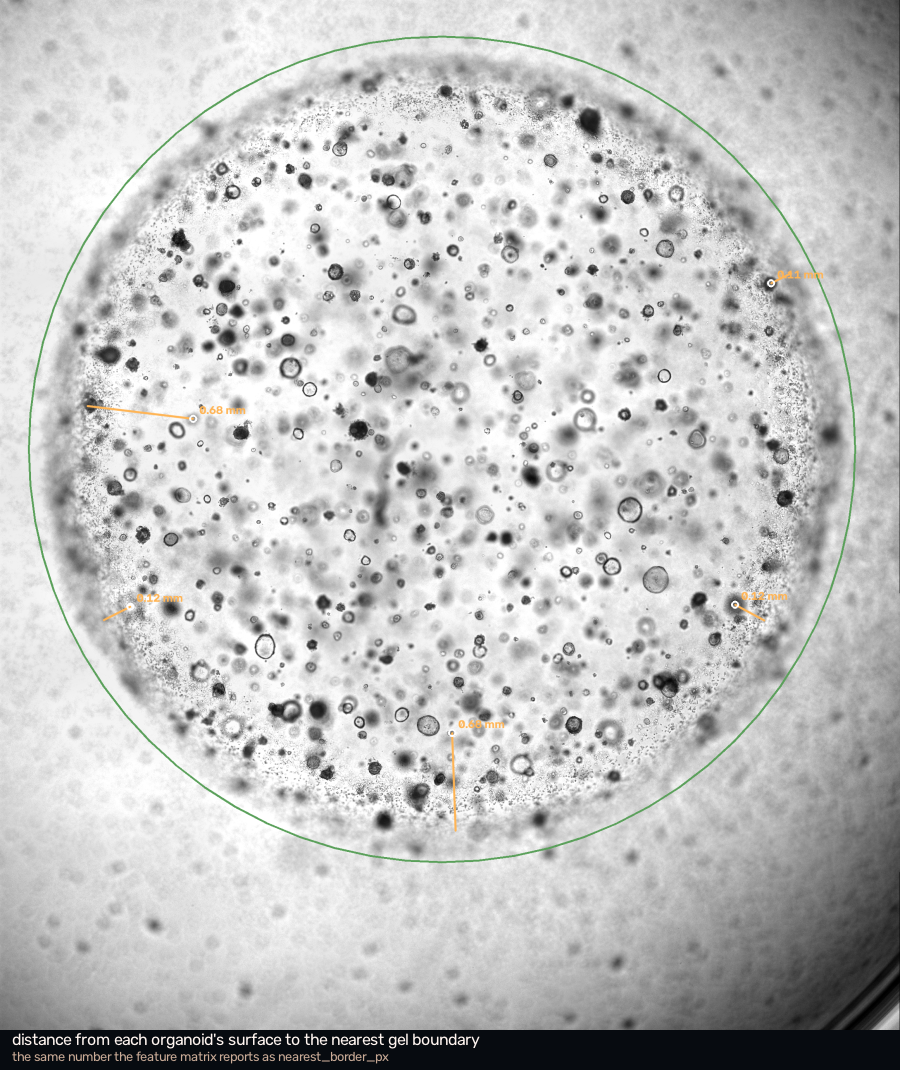
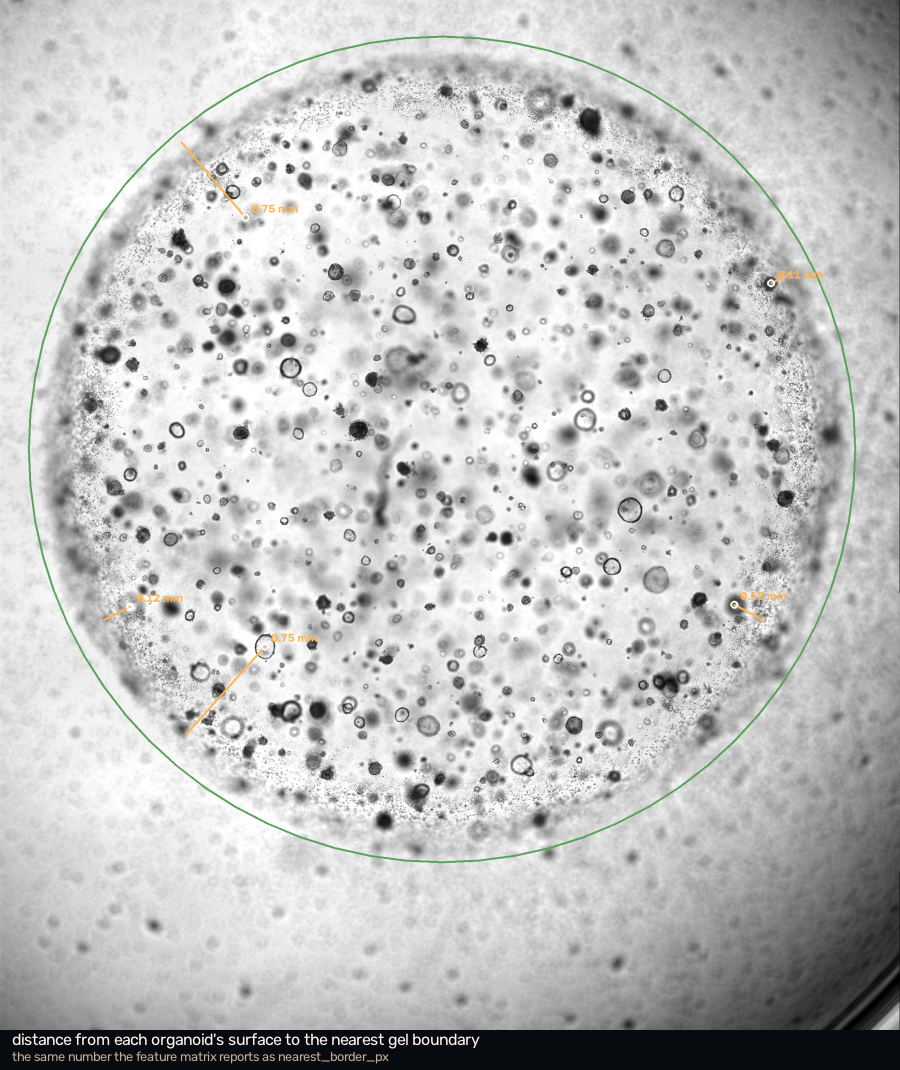
Correct the illumination before detecting, not only before measuring
The flat field was applied on the way to the feature matrix and nowhere else, so
the segmenter was looking at raw frames with sixty grey levels of tilt across
them. That is a strange position for a pipeline to take about its own data --
detecting on one version of an image and measuring on another -- and it costs
real objects, because the segmenter normalises each frame by its own
percentiles and a strong gradient spends much of that range on the gradient.

Measured on five fields before committing to it: 287 detections become 331. The
gain is not uniform and that is the point. The field under the thickest gel,
where contrast is worst, goes from 128 to 170; the brightest field loses four.
Across the whole mosaic, 844 organoids become 951.

More is not automatically better, so the false positives were counted too. The
fraction of outlines enclosing nothing more absorbing than the gel around them
is 5.2 % before and 5.7 % after -- flat, while the count rose thirteen per cent.
The extra objects are objects.

That flag is new as well, and it catches a failure no shape test can see. An
outline sitting on empty gel is wrong however smooth it is, while a ragged
outline may be a ragged organoid; of twenty-five empty outlines on this dataset,
the shape check caught one. Both flags now appear as chips in the viewer, since
a caveat only reaches anyone if it is next to the number it qualifies.

Also: the 3D view gained a switch for whether the models are drawn at all, which
[…]

diff --git a/jx3d/mosaic_viewer.html b/jx3d/mosaic_viewer.html
@@ -75,6 +75,7 @@ footer{background:var(--panel);border-top:1px solid var(--line);padding:6px 13px
   <h1>JX-3D — whole dome</h1>
   <div class="meta" id="hmeta"></div>
   <div class="spacer"></div>
+  <button id="b-models" class="on">Organoids</button>
   <button id="b-plane" class="on">Photo in 3D</button>
   <span class="meta">show</span><span id="clipmodes" class="toggles"></span>
   <button id="b-dome" class="on">Dome</button>
@@ -162,7 +163,8 @@ const state = {
   mode: "slice",            /* slice | edf */
   outline: 0.90, fill: 0.0, window: 4, allDepths: false,
   borders: true, labels: false,
-  showPlane: true, clip: "above", showDome: true, showLine: false,
+  showPlane: true, clip: "above", showModels: true, showDome: true,
+  showLine: false,
   buildUp: false,
   colour: "depth", playing: false,
 };
@@ -666,7 +668,7 @@ let dirty3 = true;
 function draw3d(){
   dirty3 = false;
   for (const [uid, m] of meshes){
-    const o = m.userData.o, vis = shown(o) && revealed(o);
+    const o = m.userData.o, vis = state.showModels && shown(o) && revealed(o);
     m.visible = vis;
     if (!vis) continue;
     const sel = o === state.selected;
@@ -703,7 +705,7 @@ const GROUPS = [
                    "nearest_border_is_cap"]],
   ["Size", ["diameter_px","diameter_um","radius_px","area_px2","volume_voxels",
             "radius_z_slices"]],
-  ["Shape", ["circularity","solidity","convexity","radius_cv","shape_suspect","radius_min_over_max",
+  ["Shape", ["circularity","solidity","convexity","radius_cv","shape_suspect","outline_empty","radius_min_over_max",
              "harmonic_1","harmonic_2","harmonic_3","harmonic_high"]],
   ["Core vs rim", ["rim_minus_core_od","core_over_rim_od","core_rim_separation",
                    "core_fill_fraction","core_od_mean","rim_od_mean","core_od_std",
@@ -719,10 +721,10 @@ const GROUPS = [
 ];
 /* Flags are shown as chips above the table, before any number, because they
    say whether the numbers below them mean anything. */
-const FLAGS = ["shape_suspect","clipped","clipped_everywhere",
+const FLAGS = ["outline_empty","shape_suspect","clipped","clipped_everywhere",
                "single_view_in_overlap","radius_disagreement","same_tile_twice",
                "guarantee_void"];
-const BOOLEAN_COLUMNS = new Set(["shape_suspect", "appearance_measurable",
+const BOOLEAN_COLUMNS = new Set(["shape_suspect", "outline_empty", "appearance_measurable",
                                  "nearest_border_is_cap"]);
 function fmt(v, key){
   if (v === null || v === undefined || v === "") return "—";
@@ -935,6 +937,12 @@ toggle("b-dome",   () => state.showDome,  v => state.showDome = v);
 toggle("b-line",   () => state.showLine,  v => state.showLine = v);
 toggle("b-build",  () => state.buildUp,   v => { state.buildUp = v; renderStats(); });
 toggle("b-plane",  () => state.showPlane, v => state.showPlane = v);
+/* Whether the models are drawn at all is a separate question from which side of
+   the photograph is kept. Turning them off leaves the photograph and the dome,
+   which is how you check what the picture looks like without the reconstruction
+   arguing with it -- and turning the photograph off instead leaves the models
+   alone. The two switches multiply, which is the point. */
+toggle("b-models", () => state.showModels, v => state.showModels = v);
 toggle("b-borders",() => state.borders,   v => state.borders = v);
 toggle("b-labels", () => state.labels,    v => state.labels = v);
 toggle("b-all-depths", () => state.allDepths, v => { state.allDepths = v; renderStats(); });

diff --git a/make_mosaic_media.py b/make_mosaic_media.py
@@ -213,6 +213,63 @@ def stitching_figure(mosaic, slices, meta, docs, z, width=1500):
     print(f"  {docs / 'stitching.png'}")
 
 
+def overlap_gif(mosaic, slices, meta, docs, z, width=820, n=26):
+    """Two neighbouring fields sliding into place, one over the other.
+
+    The four-panel figure says what the overlap is; this shows it happening. The
+    right-hand field starts a long way off, slides to where the stage log put
+    it, and then to where the pixels say it belongs -- and the point of the
+    animation is that the last step is small and still obvious, because two
+    copies of the same organoid a few pixels apart are unmistakable when they
+    are moving.
+    """
+    a, b = mosaic.at(0, 0), mosaic.at(0, 1)
+    ia, ib = slices.tile_slice(a, z), slices.tile_slice(b, z)
+    ox = b.x0 - a.x0                      # the refined offset, in pixels
+    stage = round(a.width * 0.70)         # what the stage log alone would give
+    pad = 150
+    H = a.height
+    W = int(ox + b.width + pad)
+
+    def frame(dx, caption, sub, tint):
+        canvas = np.zeros((H, W), np.float32)
+        wsum = np.zeros((H, W), np.float32)
+        canvas[:, :a.width] += ia; wsum[:, :a.width] += 1
+        x = int(round(dx))
+        x0, x1 = max(0, x), min(W, x + b.width)
+        if x1 > x0:
+            canvas[:, x0:x1] += ib[:, x0 - x:x1 - x]
+            wsum[:, x0:x1] += 1
+        img = np.divide(canvas, np.maximum(wsum, 1), out=np.zeros_like(canvas))
+        vis = cv2.cvtColor(np.clip(img, 0, 255).astype(np.uint8), cv2.COLOR_GRAY2BGR)
+        # mark where each field lies, so the overlap is visible as an overlap
+        cv2.rectangle(vis, (0, 1), (a.width, H - 2), GOLD, 3)
+        if x1 > x0:
+            cv2.rectangle(vis, (x, 1), (min(W - 1, x + b.width), H - 2), tint, 3)
+        vis = fit_width(vis, width)
+        return cv2.cvtColor(label(vis, caption, sub), cv2.COLOR_BGR2RGB)
+
+    frames = []
+    for t in np.linspace(0, 1, n):                       # slide in from the right
+        dx = b.width * 0.98 * (1 - t) + stage * t
+        frames.append(frame(dx, "field 2 slides towards field 1",
+                            "they were photographed 2.5 mm apart on the stage",
+                            (90, 200, 120)))
+    frames += [frame(stage, "where the stage log puts it",
+                     "close, and out by enough to count one organoid twice",
+                     (90, 200, 120))] * 10
+    for t in np.linspace(0, 1, 8):                       # the refinement
+        frames.append(frame(stage + (ox - stage) * t,
+                            "refined against the overlapping pixels",
+                            f"{abs(ox - stage):.0f} px further; the pairs now agree "
+                            f"to {meta['registration']['residual_px']:.2f} px",
+                            AMBER))
+    frames += [frame(ox, "one image, joined",
+                     "the shared strip is averaged, so the seam disappears",
+                     AMBER)] * 14
+    save_gif(docs / "overlap.gif", frames, 110, palettesize=96)
+
+
 def dome_gif(mosaic, slices, meta, docs, width=560, n=20):
     """The droplet's cross-section widening as the focus descends.
 
@@ -366,6 +423,7 @@ def main(argv=None) -> int:
     print("building figures:")
     assembly_gif(mosaic, slices, docs, z)
     stitching_figure(mosaic, slices, meta, docs, z)
+    overlap_gif(mosaic, slices, meta, docs, z)
     dome_gif(mosaic, slices, meta, docs)
     fov_gif(mosaic, slices, rows, docs, z)
     border_figure(mosaic, slices, meta, rows, docs)

diff --git a/jx3d/pipeline.py b/jx3d/pipeline.py
@@ -75,6 +75,7 @@ def _cache_key(stack: ZStack, params: Params, z_limit: int) -> dict:
         "expected_diameter_px": params.expected_diameter_px,
         "files": len(stack.files),
         "z_limit": int(z_limit),
+        "flat_fielded": bool(stack.meta.get("flat_fielded")),
     }
 
 
@@ -100,7 +101,8 @@ def run(folder: str | Path, outdir: str | Path, params: Params | None = None,
         gpu: bool = True, use_cache: bool = True, jpeg_quality: int = 72,
         min_sharpness: float = 0.25, build_html: bool = True,
         calibration: dict | None = None,
-        substrate_override: float | None = None) -> Result:
+        substrate_override: float | None = None,
+        flat_field=None) -> Result:
     params = params or Params()
     outdir = Path(outdir)
     outdir.mkdir(parents=True, exist_ok=True)
@@ -110,6 +112,20 @@ def run(folder: str | Path, outdir: str | Path, params: Params | None = None,
     _log("=" * 74)
     _log("[1/7] Loading Z-stack")
     stack = load_stack(folder)
+    if flat_field is not None:
+        # Correct the illumination *before* anything is detected, not just
+        # before things are measured.
+        #
+        # The segmenter normalises each image by its own percentiles, so a frame
+        # with sixty grey levels of tilt across it spends much of that range on
+        # the gradient rather than on the specimen, and the dim corner of every
+        # field is where objects go missing. Measuring on corrected pixels while
+        # detecting on uncorrected ones also means the two disagree about what
+        # the image looks like, which is a strange position for a pipeline to
+        # take about its own data.
+        corrected = stack.data.astype(np.float32) / flat_field[None, :, :]
+        stack.data = np.clip(corrected, 0, 255).astype(np.uint8)
+        stack.meta["flat_fielded"] = True
     for field, value in (calibration or {}).items():
         setattr(stack.acq, field, value)
         if field in ("px_um", "z_um"):
@@ -137,6 +153,8 @@ def run(folder: str | Path, outdir: str | Path, params: Params | None = None,
         _log(f"  sharpest plane   : Z{substrate + 1:03d}  (well bottom / glass surface)")
     z_limit = max(3, min(stack.depth, substrate - params.substrate_margin_slices + 1))
     key = _cache_key(stack, params, z_limit)
+    if stack.meta.get("flat_fielded"):
+        _log("  illumination corrected before detection")
     _log(f"  analysed range   : Z001 - Z{z_limit:03d}")
     _log(f"  depth of field   : ~{stack.acq.depth_of_field_um:.0f} µm "
          f"(~{stack.acq.depth_of_field_um / stack.acq.z_um:.1f} slices)"
@@ -388,6 +406,7 @@ def _write_tables(organoids: list[Organoid], stack: ZStack, params: Params,
         "acquisition": acq.to_dict(),
         "params": params.to_dict(),
         "substrate_slice": int(substrate),
+        "flat_fielded": bool(stack.meta.get("flat_fielded")),
         "viewer_version": _viewer_version(),
         "dome": dome.to_dict() if dome is not None else None,
         "n_organoids": len(organoids),

diff --git a/jx3d/mosaic_pipeline.py b/jx3d/mosaic_pipeline.py
@@ -68,7 +68,8 @@ class MosaicResult:
 
 def analyse_tiles(mosaic: mosaicmod.Mosaic, substrate: float, params: Params,
                   outdir: Path, gpu: bool = True, use_cache: bool = True,
-                  min_sharpness: float = 0.25) -> dict[str, list[dict]]:
+                  min_sharpness: float = 0.25, flat_field=None
+                  ) -> dict[str, list[dict]]:
     """Run the validated single-field measurement on each tile in turn.
 
     One tile is resident at a time. The full mosaic volume is 750 million
@@ -95,7 +96,8 @@ def analyse_tiles(mosaic: mosaicmod.Mosaic, substrate: float, params: Params,
                        and cached.get("mode") == params.mode
                        and cached.get("detector") == params.detector
                        and cached.get("min_diameter_px") == params.min_diameter_px
-                       and cached.get("max_diameter_px") == params.max_diameter_px)
+                       and cached.get("max_diameter_px") == params.max_diameter_px
+                       and bool(payload.get("flat_fielded")) == (flat_field is not None))
             if matches:
                 per_tile[tile.name] = payload["organoids"]
                 _log(f"  {len(per_tile[tile.name])} organoids (cached)")
@@ -104,7 +106,8 @@ def analyse_tiles(mosaic: mosaicmod.Mosaic, substrate: float, params: Params,
                  f"(mode {cached.get('mode')} vs {params.mode}); re-measuring")
         run_tile(tile.folder, tile_out, params=params, gpu=gpu,
                  use_cache=use_cache, build_html=False,
-                 min_sharpness=min_sharpness, substrate_override=substrate)
+                 min_sharpness=min_sharpness, substrate_override=substrate,
+                 flat_field=flat_field)
         if result_path.exists():
             per_tile[tile.name] = json.loads(result_path.read_text())["organoids"]
         else:
@@ -236,7 +239,7 @@ def run(dataset: str | Path, outdir: str | Path, params: Params | None = None,
     _log("\n[5/7] Measuring each tile")
     per_tile = analyse_tiles(mosaic, substrate.slice_index, params, outdir,
                              gpu=gpu, use_cache=use_cache,
-                             min_sharpness=min_sharpness)
+                             min_sharpness=min_sharpness, flat_field=flat.gain)
 
     _log("\n[6/7] Merging the overlaps")
     organoids, report = dedupmod.merge(mosaic, per_tile, acq)

diff --git a/jx3d/features.py b/jx3d/features.py
@@ -307,6 +307,26 @@ def intensity_features(regions: Regions, od: np.ndarray) -> dict[str, float]:
     out.update(_stats(od[regions.annulus], "rim"))
     out.update(_stats(od[regions.body], "body"))
 
+    body = od[regions.body]
+    if body.size >= 4:
+        # Does the outline contain an object at all? An organoid absorbs light;
+        # gel does not. If the enclosed region is no more absorbing than the
+        # background estimated from the ring around it, then whatever the
+        # segmenter drew, there is nothing inside it.
+        #
+        # This catches a failure that no shape test can see. A ragged outline
+        # may be a genuinely ragged organoid, but an outline sitting on empty
+        # gel is wrong however smooth it is -- and on this dataset the two
+        # populations barely overlap: of twenty-five empty outlines, the shape
+        # flag caught one.
+        #
+        # The threshold is six per cent absorption, which is an order of
+        # magnitude below what any real organoid here shows (median 52 %) and an
+        # order of magnitude above the noise of an 8-bit image against a
+        # fitted background.
+        out["body_od_mean"] = float(body.mean())
+        out["outline_empty"] = float(out["body_od_mean"] < 0.06)
+
     core = od[regions.core]
     rim = od[regions.annulus]
     if core.size >= 4 and rim.size >= 4:
@@ -617,6 +637,12 @@ VIABILITY_COLUMNS: list[tuple[str, str]] = [
     ("solidity", "outline area over its convex hull: how lobed or dented it is"),
     ("radius_cv", "variation of the radius around the outline, a scale-free "
                   "measure of how irregular the boundary is"),
+    ("outline_empty", "the outline encloses nothing more absorbing than the gel "
+                      "around it, so the segmenter drew a boundary where there "
+                      "is no object. Unambiguously wrong, unlike an irregular "
+                      "shape, and invisible to any test of shape -- of the "
+                      "twenty-five found on this dataset, the shape check caught "
+                      "one. Drop these rows"),
     ("shape_suspect", "the outline has a notch or a raggedness an organoid does "
                       "not have, so the segmenter probably cut into it or merged "
                       "it with a neighbour. Affects a small minority -- two of a "

diff --git a/tests/check_mosaic_viewer.py b/tests/check_mosaic_viewer.py
@@ -154,6 +154,14 @@ HARNESS = r"""
                                         m.material.clippingPlanes.length === 1),
          "and no material gains or loses a clipping plane, so nothing recompiles");
       state.clip = "above"; draw3d();
+
+      // and whether the models are drawn at all is independent of which side
+      state.showModels = false; draw3d();
+      ok([...meshes.values()].every(m => !m.visible),
+         "the organoids can be hidden entirely, leaving the photograph and dome");
+      ok(planeMesh.visible, "the photograph stays when the models are hidden");
+      state.showModels = true; draw3d();
+      ok([...meshes.values()].some(m => m.visible), "and they come back");
     }
     ok(Math.abs(planeMesh.position.z - ZW(state.z)) < 1e-6,
        "the plane sits at exactly the current slice's depth");

diff --git a/jx3d/__init__.py b/jx3d/__init__.py
@@ -15,7 +15,7 @@ A specimen larger than one field is captured as a grid of overlapping stacks.
 measured as a single object rather than as fifteen unrelated views of it.
 """
 
-__version__ = "2.9.0"
+__version__ = "2.10.0"
 
 from .config import Acquisition, Params
 from .mosaic import Mosaic, Tile

diff --git a/README.md b/README.md
@@ -20,7 +20,7 @@ the source it came from — see [Units](#units).
 ![mosaic](docs/mosaic.png)
 
 *One Matrigel droplet, 8 mm across, assembled from fifteen overlapping
-brightfield Z-stacks. 844 organoids, each counted once and measured in a single
+brightfield Z-stacks. 951 organoids, each counted once and measured in a single
 coordinate frame.*
 
 ![slicer](docs/slicer.gif)
@@ -221,10 +221,6 @@ The projection has its own blind spot: two organoids at the same (x, y) but
 different depths merge into one blob. The per-slice path separates those. The
 default `--mode both` takes the union of the two and deduplicates.
 
-![depth map](docs/depth_map.png)
-
-*Per-pixel depth of best focus — the by-product that makes the projection work.*
-
 ---
 
 ## The whole dome
@@ -239,6 +235,14 @@ file from the organoid.
 ```bash
 ./.venv/bin/python run_mosaic.py BK52_WT_9805_B
 ```
+
+![overlap](docs/overlap.gif)
+
+*Two neighbouring fields, joined. The right-hand one slides to where the stage
+log put it — close, and out by enough to count one organoid twice — and then to
+where the pixels say it belongs. The last step is small and unmistakable,
+because two copies of the same organoid a few pixels apart are obvious the
+moment they move.*
 
 ![stitching](docs/stitching.png)
 
@@ -389,7 +393,7 @@ frame edge, and never from shape. A disc cut clean in half still scores 0.72 for
 circularity and sails through the 0.55 shape filter, so a shape test cannot see
 clipping at all; it only sees a slightly rounder object.
 
-On this dataset: **1306 sightings become 844 organoids**, so 35 % of raw
+On this dataset: **1440 sightings become 951 organoids**, so 34 % of raw
 detections were repeats. Where two tiles agreed an object was there, they placed
 it to a median of **0.39 px laterally and 0.58 slices in depth** — well inside
 the 4 px and 3.3-slice gates, which is why the gates are not a sensitive knob.
@@ -643,7 +647,7 @@ Still renders without a browser:
 
 ### Whole-dome feature matrix (`features.csv`)
 
-844 organoids × 139 columns on this dataset. The blocks, and what each is for:
+951 organoids on this dataset, 29 columns by default and 141 in `features_all.csv`. The blocks, and what each is for:
 
 | block | columns | what it carries |
 |---|---|---|
